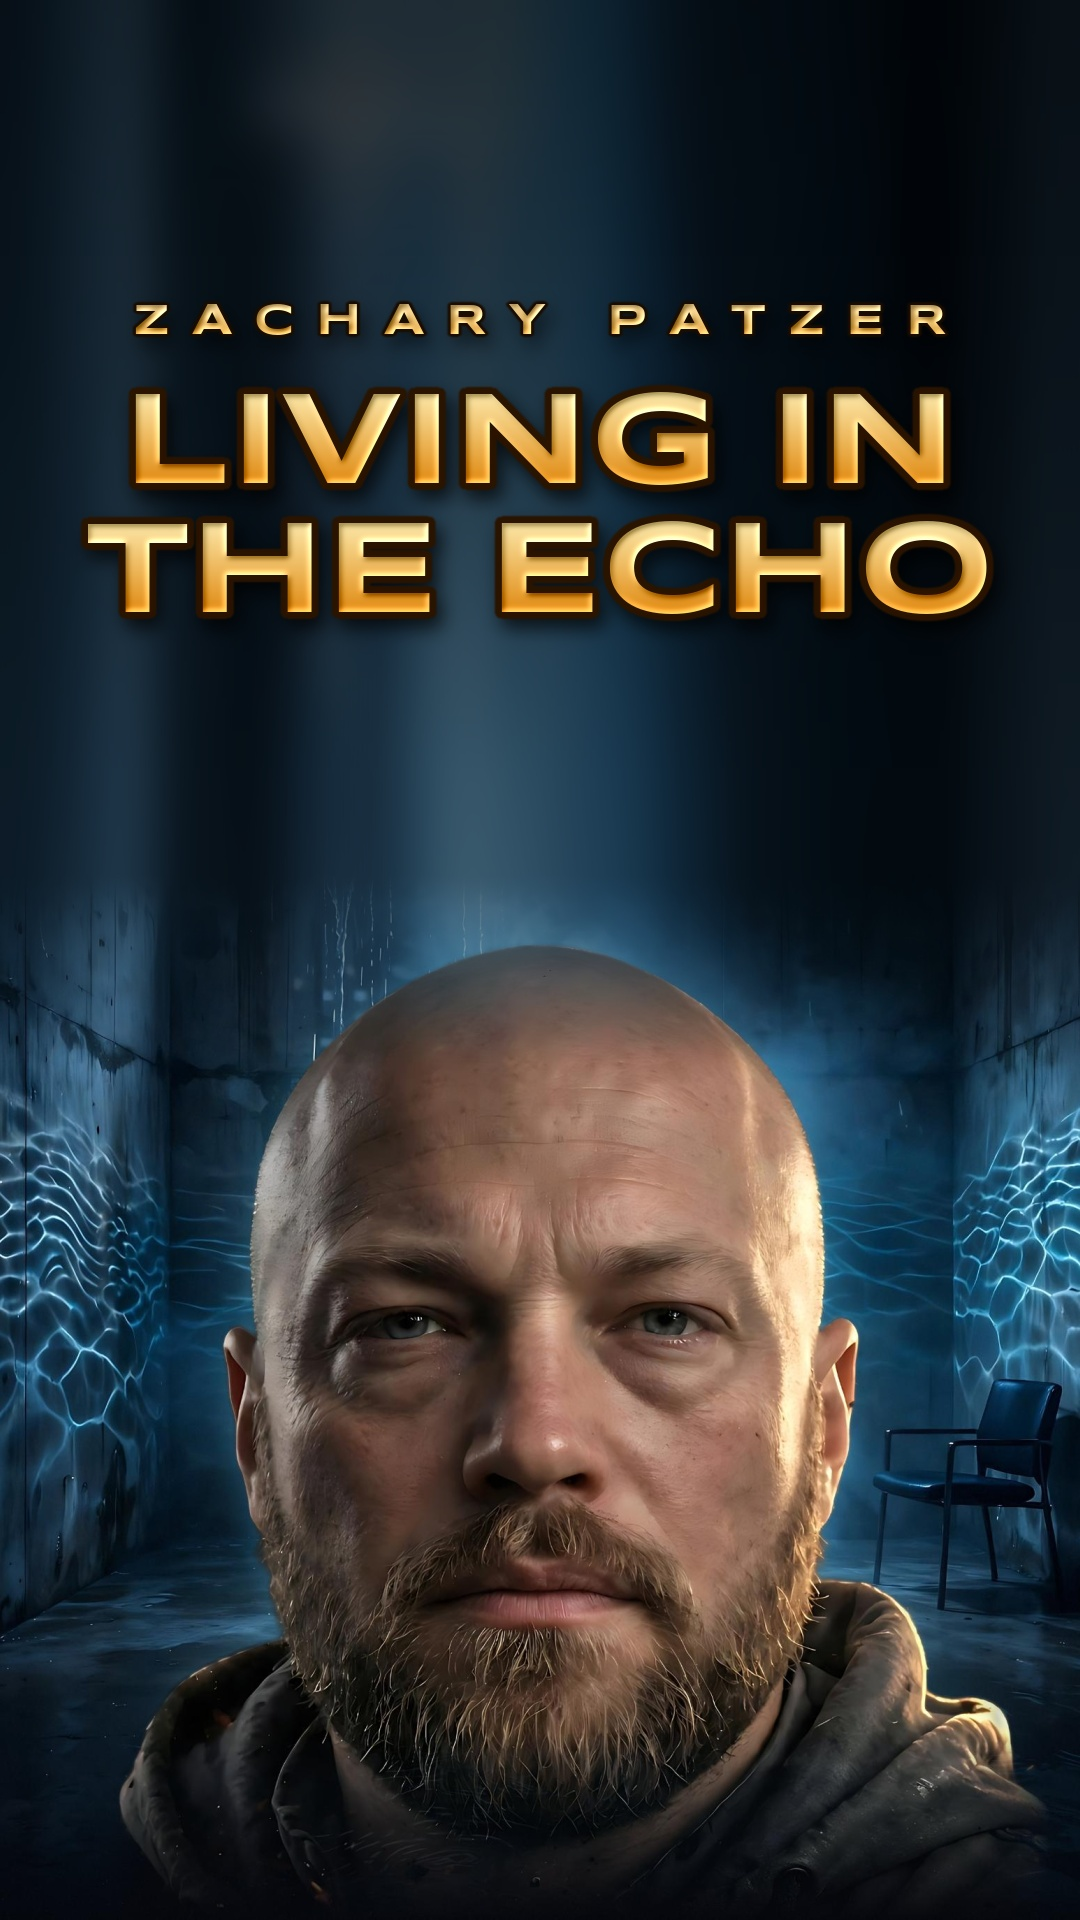
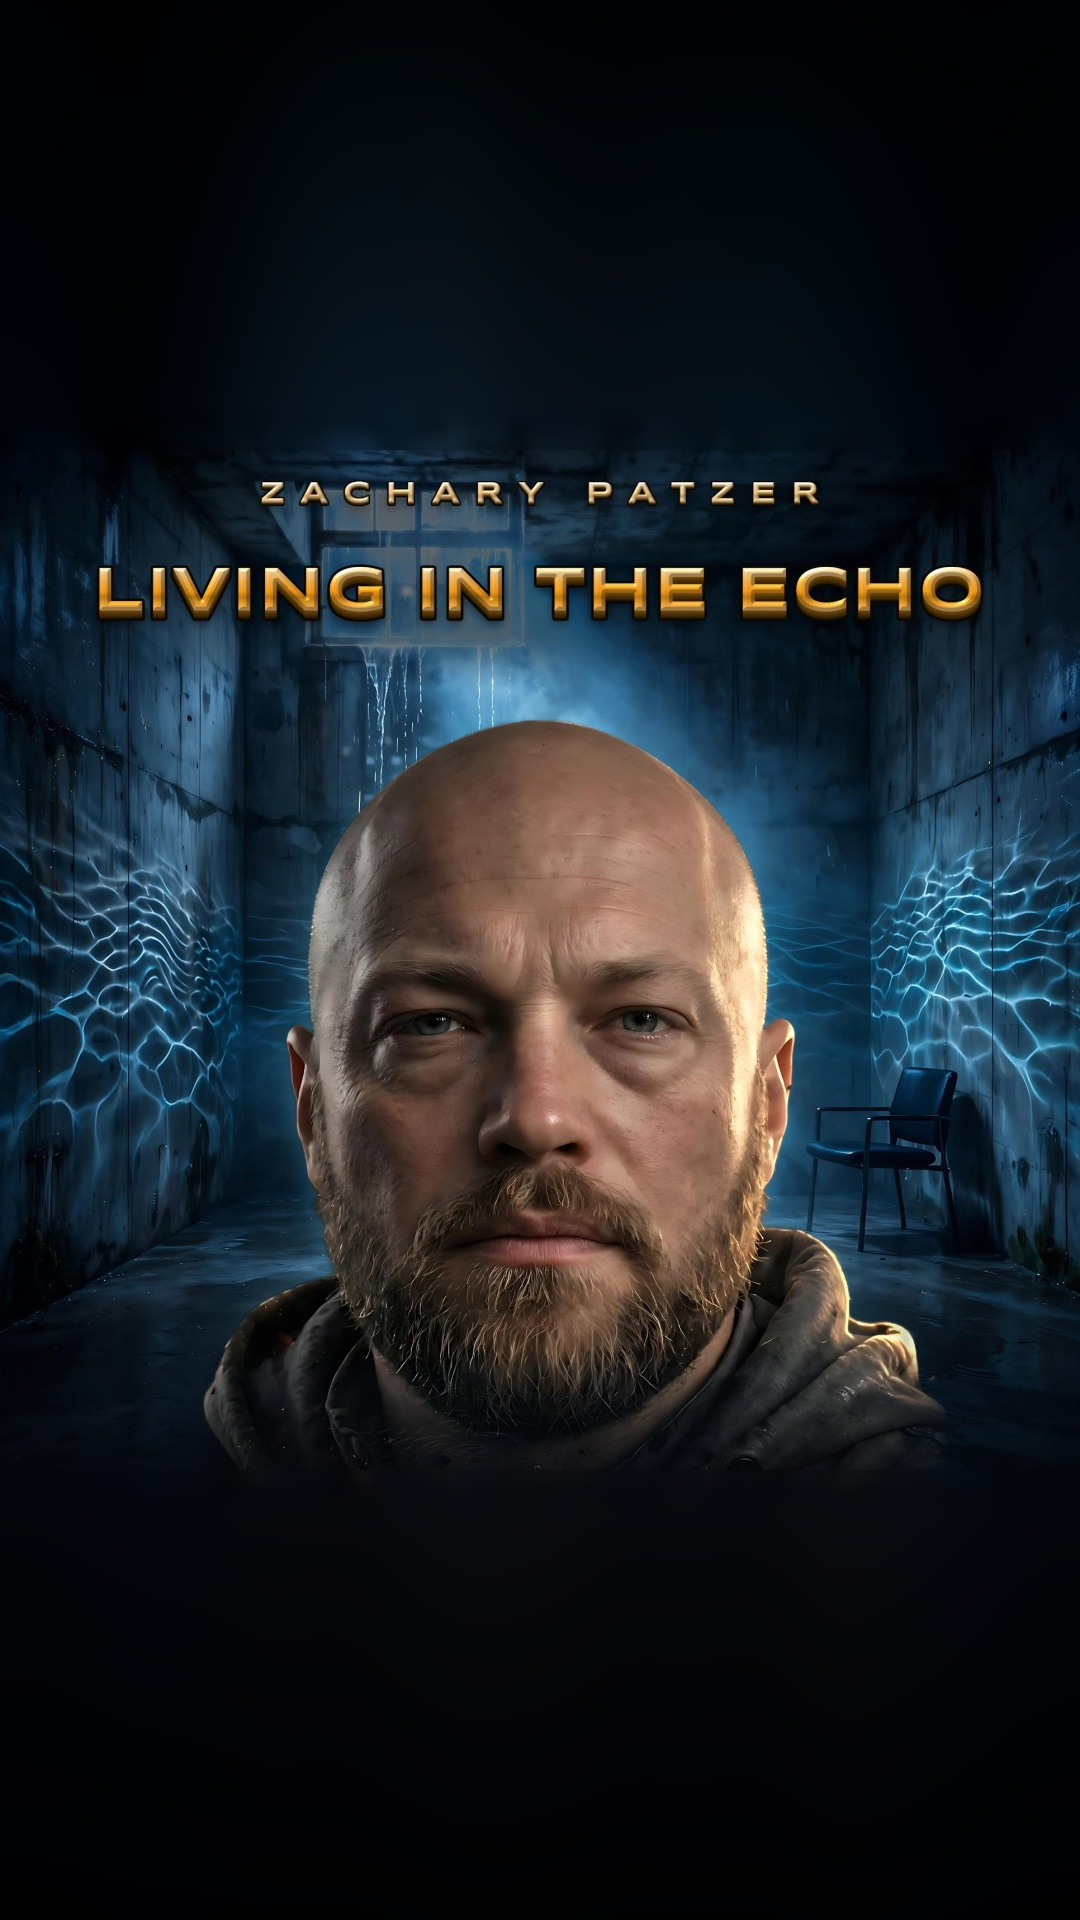
Redo Living in the Echo Reel cover: original cover intact, centred
Claude-Session: https://claude.ai/code/session_0161yxCdxmHyukqXjSgxQCEt

diff --git a/pipeline/scripts/reel_center_cover.py b/pipeline/scripts/reel_center_cover.py
@@ -1,0 +1,22 @@
+#!/usr/bin/env python3
+"""9:16 Facebook Reel cover that keeps the original square cover untouched: cover full-width, centred
+(so Facebook's 4:5 feed crop still shows all of it), top/bottom filled with a soft mirrored extension of its own edges.
+usage: reel_center_cover.py cover.jpg out.jpg"""
+import sys, numpy as np, cv2
+src, out = sys.argv[1:3]
+W, H = 1080, 1920
+C = cv2.resize(cv2.imread(src), (W, W), interpolation=cv2.INTER_AREA).astype(np.float32)
+y0 = (H - W) // 2
+# fill: each column continues the colour of the cover's edge rows (no mirrored content), fading to near-black
+top = cv2.GaussianBlur(C[:24].mean(0, keepdims=True), (0, 0), 40)      # 1 x W x 3
+bot = cv2.GaussianBlur(C[-24:].mean(0, keepdims=True), (0, 0), 40)
+yy = np.arange(H, dtype=np.float32)[:, None, None]
+dt = np.clip((y0 - yy) / y0, 0, 1); db = np.clip((yy - (y0 + W)) / y0, 0, 1)
+img = np.where(yy < y0, top * (1 - 0.8 * dt ** 0.8), bot * (1 - 0.8 * db ** 0.8)).astype(np.float32)
+img = np.broadcast_to(img, (H, W, 3)).copy()
+img[y0:y0 + W] = C
+# feather the cover into the extension over 50 px so there is no hard seam
+# soften the seam: blur a thin band across each cover edge
+for e in (y0, y0 + W):
+    band = img[e - 30:e + 30].copy(); img[e - 30:e + 30] = cv2.GaussianBlur(band, (0, 0), 8)
+cv2.imwrite(out, np.clip(img, 0, 255).astype(np.uint8), [cv2.IMWRITE_JPEG_QUALITY, 95]); print(out)
